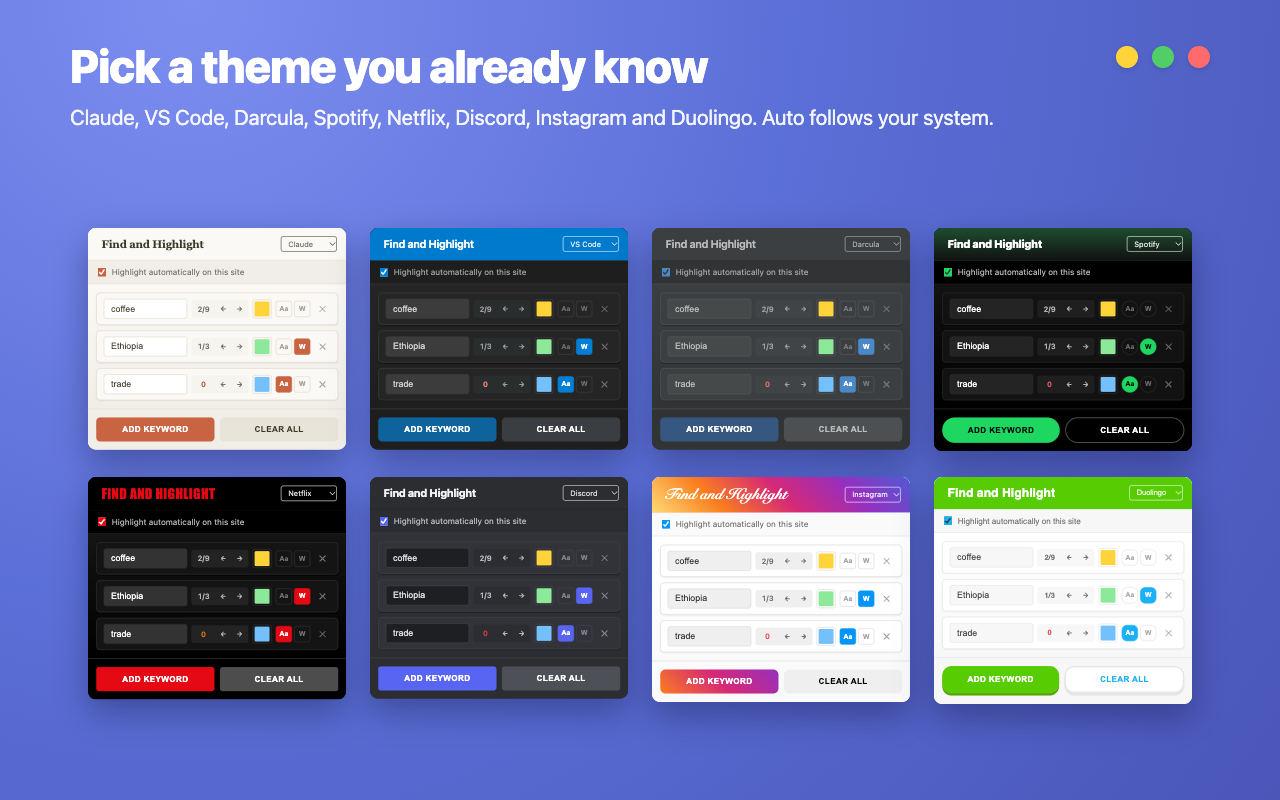
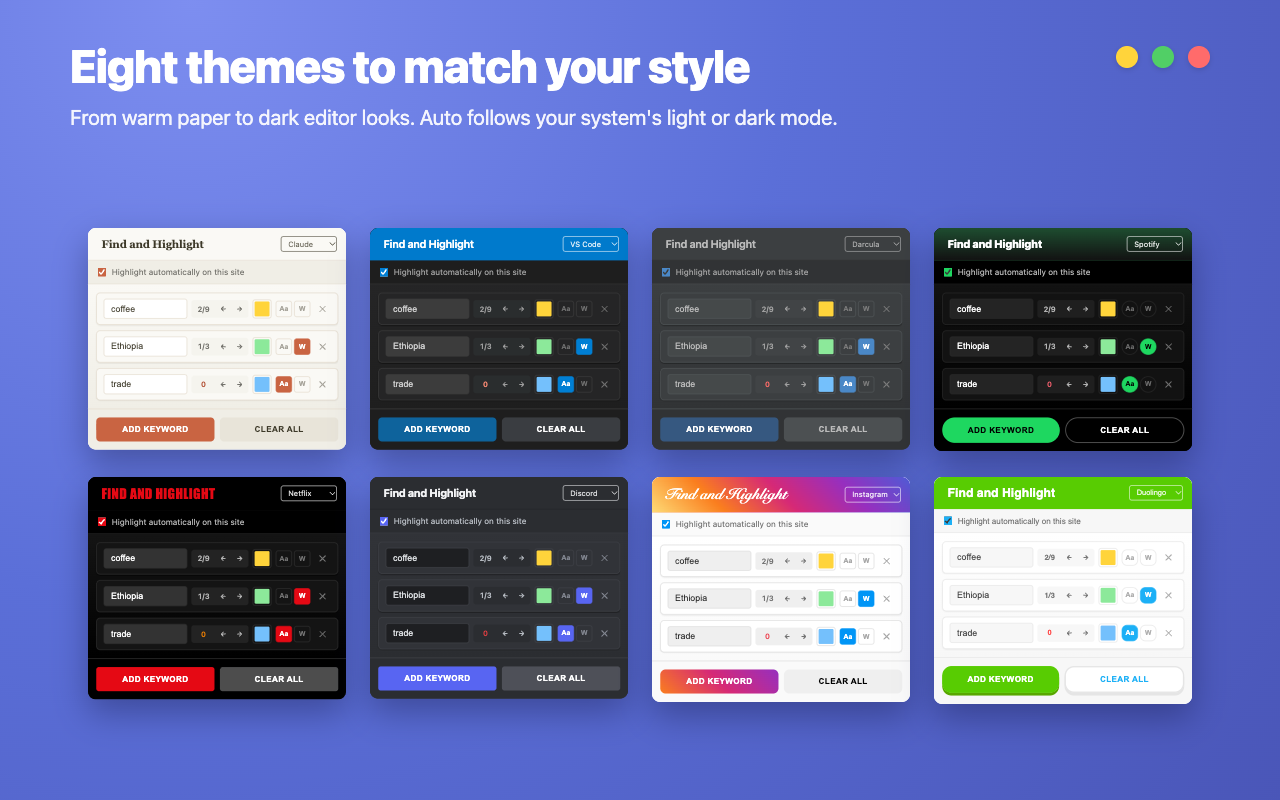
docs: drop brand names from the store description and theme screenshot
The Chrome Web Store rejected 1.1.0 for keyword stuffing over the list of
theme names in the description.

Changed region(s): [[0.0625, 0.0625, 0.7812, 0.1562]]

diff --git a/description.md b/description.md
@@ -18,7 +18,7 @@ HIGHLIGHTS ITSELF
 • Content that appears later (infinite scroll, single-page apps) is highlighted as it loads
 
 MADE FOR YOU
-• 8 themes inspired by apps you know: Claude, VS Code, Darcula, Spotify, Netflix, Discord, Instagram and Duolingo. Auto switches between Claude and VS Code with your system
+• 8 color themes, from warm paper to dark editor styles. Auto follows your system's light or dark mode
 • The interface is available in 24 languages
 
 PERFECT FOR
